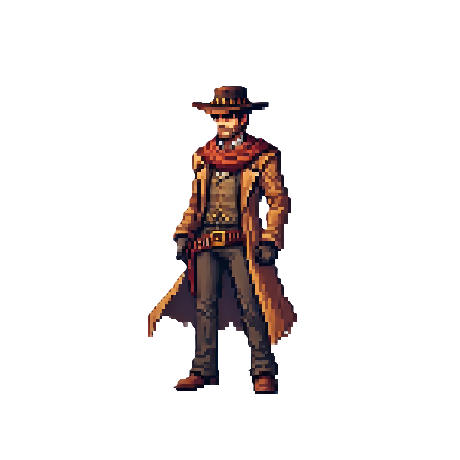
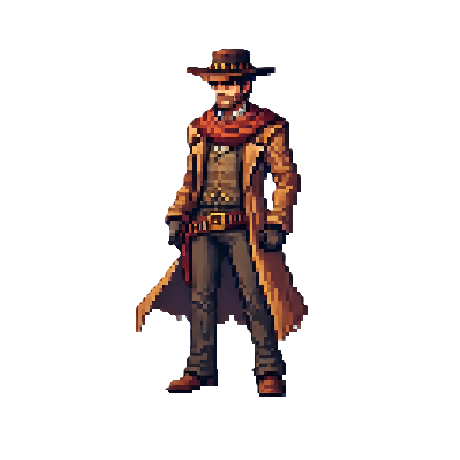
リザルト画面の仮位置と調整

Changed region(s): [[0.2739, 0.0913, 0.6696, 0.8826]]

diff --git a/GameJam2025/Scene/ResultScene.cpp b/GameJam2025/Scene/ResultScene.cpp
@@ -9,7 +9,7 @@ ResultScene::ResultScene() : background_image(NULL), win_image(NULL), lose_image
 {
 	for (int i = 0; i < 5; i++)
 	{
-		WinLossImage[i] = -1;
+		WinLoseImage[i] = -1;
 	}
 }
 
@@ -23,15 +23,15 @@ void ResultScene::Initialize()
 	background_image = LoadGraph("Resource/images/bg_result.png");
 	win_image = LoadGraph("Resource/images/win.png");
 	lose_image = LoadGraph("Resource/images/lose.png");
-	win_p_image = LoadGraph("Resource/images/player2.png");
+	win_p_image = LoadGraph("Resource/images/player4.png");
     lose_p_image = LoadGraph("Resource/images/player3.png");
 
 	// 勝敗表示用画像の読み込み 
-	WinLossImage[0] = LoadGraph("Resource/images/0.png");
-	WinLossImage[1] = LoadGraph("Resource/images/1.png");
-	WinLossImage[2] = LoadGraph("Resource/images/2.png");
-	WinLossImage[3] = LoadGraph("Resource/images/3.png");
-	WinLossImage[4] = LoadGraph("Resource/images/(-).png");
+	WinLoseImage[0] = LoadGraph("Resource/images/0.png");
+	WinLoseImage[1] = LoadGraph("Resource/images/1.png");
+	WinLoseImage[2] = LoadGraph("Resource/images/2.png");
+	WinLoseImage[3] = LoadGraph("Resource/images/3.png");
+	WinLoseImage[4] = LoadGraph("Resource/images/(-).png");
 	
 	//エラーチェック
 	//画像
@@ -49,7 +49,7 @@ void ResultScene::Initialize()
 	}
 	if (win_p_image == -1)
 	{
-		throw("Resource/images/player2.pngがありません\n");
+		throw("Resource/images/player4.pngがありません\n");
 	}
 	if (lose_p_image == -1)
 	{
@@ -62,10 +62,11 @@ eSceneType ResultScene::Update()
 {
 	result_cnt++;
 
-	if (result_cnt == 240)
+	//早すぎたので５秒にしてます
+	/*if (result_cnt == 300)
 	{
 		return eSceneType::E_RANKING;
-	}
+	}*/
 		
 
 
@@ -79,7 +80,22 @@ void ResultScene::Draw() const
 	//リザルト背景画像の描画
 	DrawRotaGraph(640, 360, 1.0, 0.0, background_image, FALSE);
 
-	//
+	//WIIN,LOSEの仮位置
+	//Ｘ座標 320 or 980 , Y座標 200  0.8倍
+	DrawRotaGraph(320, 200, 0.8, 0.0, lose_image, TRUE);
+	DrawRotaGraph(980, 200, 0.8, 0.0, win_image, TRUE);
+
+	//勝敗スコアの仮位置
+	//Ｘ座標 530 から +120 の間隔　　 0.8倍
+	DrawRotaGraph(530, 120, 0.8, 0.0, WinLoseImage[3], TRUE);
+	DrawRotaGraph(650, 120, 0.8, 0.0, WinLoseImage[4], TRUE);
+	DrawRotaGraph(770, 120, 0.8, 0.0, WinLoseImage[0], TRUE);
+	 
+	//プレイヤーの仮位置
+	//X座標 350 or 960 , Y座標 470　　0.8倍
+	DrawRotaGraph(960, 470, 1.0, 0.0, win_p_image, TRUE);
+	DrawRotaGraph(350, 470, 1.0, 0.0, lose_p_image, TRUE);
+
 }
 
 //終了処理

diff --git a/GameJam2025/Scene/ResultScene.h b/GameJam2025/Scene/ResultScene.h
@@ -16,7 +16,7 @@ private:
 	int lose_p_image;
 
 	//勝敗用
-	int WinLossImage[5];
+	int WinLoseImage[5];
 	
 	int result_cnt;
 	
